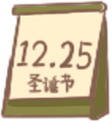
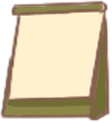
add HomePage calendar date & Todolist scroll bar
add HomePage calendar date & Todolist scroll bar

Changed region(s): [[0.1339, 0.3171, 0.8571, 0.5854], [0.2411, 0.5854, 0.6696, 0.7805]]

diff --git a/src/page/TodoList/TodoList.jsx b/src/page/TodoList/TodoList.jsx
@@ -2,6 +2,8 @@ import baseMap from "../../img/Todolist/basemap.png";
 import check from "../../img/Todolist/check.png";
 import checkBox from "../../img/Todolist/CheckBox.png";
 import paper from "../../img/Todolist/paper.png";
+import greenBook from "../../img/Todolist/GreenBook.png";
+import paperContent from "../../img/Todolist/PaperContent.png";
 
 import { postData, getJSON, putData } from "../../api/fetch";
 import { useState } from "react";
@@ -21,7 +23,7 @@ const TodoList = () => {
         setTemp(todos);
     }
     if (todos.length === 0) {
-        for (let i = 0; i < 5; i++) {
+        for (let i = 0; i < 10; i++) {
             todos.unshift({
                 description: "",
                 completed: false
@@ -96,22 +98,47 @@ const TodoList = () => {
                 <div className="view">
                     <img alt='' src={baseMap} className="baseMap" />
                     <img alt='' src={paper} className="paper" />
-                    <img alt='' src={checkBox} className="checkBox" />
-                    <img alt='' src={check} className={`check1 check ${temp[0].completed ? "a" : "b"}`} />
-                    <img alt='' src={check} className={`check2 check ${temp[1].completed ? "a" : "b"}`} />
-                    <img alt='' src={check} className={`check3 check ${temp[2].completed ? "a" : "b"}`} />
-                    <img alt='' src={check} className={`check4 check ${temp[3].completed ? "a" : "b"}`} />
-                    <img alt='' src={check} className={`check5 check ${temp[4].completed ? "a" : "b"}`} />
-                    <input type="checkbox" className="checker1 checker" defaultChecked={temp[0].completed} onChange={checked1}></input>
-                    <input type="checkbox" className="checker2 checker" defaultChecked={temp[1].completed} onChange={checked2}></input>
-                    <input type="checkbox" className="checker3 checker" defaultChecked={temp[2].completed} onChange={checked3}></input>
-                    <input type="checkbox" className="checker4 checker" defaultChecked={temp[3].completed} onChange={checked4}></input>
-                    <input type="checkbox" className="checker5 checker" defaultChecked={temp[4].completed} onChange={checked5}></input>
-                    <input type="text" className="todo1 todo descriptionInput" defaultValue={temp[0].description} onChange={todoChange1}></input>
-                    <input type="text" className="todo2 todo descriptionInput" defaultValue={temp[1].description} onChange={todoChange2}></input>
-                    <input type="text" className="todo3 todo descriptionInput" defaultValue={temp[2].description} onChange={todoChange3}></input>
-                    <input type="text" className="todo4 todo descriptionInput" defaultValue={temp[3].description} onChange={todoChange4}></input>
-                    <input type="text" className="todo5 todo descriptionInput" defaultValue={temp[4].description} onChange={todoChange5}></input>
+                    <div className="TodolistOuterContent">
+                        <div className="TodolistContent">
+                            <img alt='' src={paperContent} className="paperContent" />
+                            <img alt='' src={checkBox} className="checkBox" />
+                            <img alt='' src={check} className={`check1 check ${temp[0].completed ? "a" : "b"}`} />
+                            <img alt='' src={check} className={`check2 check ${temp[1].completed ? "a" : "b"}`} />
+                            <img alt='' src={check} className={`check3 check ${temp[2].completed ? "a" : "b"}`} />
+                            <img alt='' src={check} className={`check4 check ${temp[3].completed ? "a" : "b"}`} />
+                            <img alt='' src={check} className={`check5 check ${temp[4].completed ? "a" : "b"}`} />
+                            <input type="checkbox" className="check1 checker" defaultChecked={temp[0].completed} onChange={checked1}></input>                            
+                            <input type="text" className="todo1 todo descriptionInput" defaultValue={temp[0].description} onChange={todoChange1}></input>
+                            <input type="checkbox" className="check2 checker" defaultChecked={temp[1].completed} onChange={checked2}></input>
+                            <input type="text" className="todo2 todo descriptionInput" defaultValue={temp[1].description} onChange={todoChange2}></input>
+                            <input type="checkbox" className="check3 checker" defaultChecked={temp[2].completed} onChange={checked3}></input>
+                            <input type="text" className="todo3 todo descriptionInput" defaultValue={temp[2].description} onChange={todoChange3}></input>
+                            <input type="checkbox" className="check4 checker" defaultChecked={temp[3].completed} onChange={checked4}></input>
+                            <input type="text" className="todo4 todo descriptionInput" defaultValue={temp[3].description} onChange={todoChange4}></input>
+                            <input type="checkbox" className="check5 checker" defaultChecked={temp[4].completed} onChange={checked5}></input>
+                            <input type="text" className="todo5 todo descriptionInput" defaultValue={temp[4].description} onChange={todoChange5}></input>
+                        </div>
+                        <div className="TodolistContent">
+                            <img alt='' src={paperContent} className="paperContent" />
+                            <img alt='' src={checkBox} className="checkBox" />
+                            <img alt='' src={check} className={`check1 check ${temp[5].completed ? "a" : "b"}`} />
+                            <img alt='' src={check} className={`check2 check ${temp[6].completed ? "a" : "b"}`} />
+                            <img alt='' src={check} className={`check3 check ${temp[7].completed ? "a" : "b"}`} />
+                            <img alt='' src={check} className={`check4 check ${temp[8].completed ? "a" : "b"}`} />
+                            <img alt='' src={check} className={`check5 check ${temp[9].completed ? "a" : "b"}`} />
+                            <input type="checkbox" className="check1 checker" defaultChecked={temp[5].completed}></input>                            
+                            <input type="text" className="todo1 todo descriptionInput" defaultValue={temp[5].description}></input>
+                            <input type="checkbox" className="check2 checker" defaultChecked={temp[6].completed}></input>
+                            <input type="text" className="todo2 todo descriptionInput" defaultValue={temp[6].description}></input>
+                            <input type="checkbox" className="check3 checker" defaultChecked={temp[7].completed}></input>
+                            <input type="text" className="todo3 todo descriptionInput" defaultValue={temp[7].description}></input>
+                            <input type="checkbox" className="check4 checker" defaultChecked={temp[8].completed}></input>
+                            <input type="text" className="todo4 todo descriptionInput" defaultValue={temp[8].description}></input>
+                            <input type="checkbox" className="check5 checker" defaultChecked={temp[9].completed}></input>
+                            <input type="text" className="todo5 todo descriptionInput" defaultValue={temp[9].description}></input>
+                        </div>
+                    </div>
+                    <img alt='' src={greenBook} className="greenBook" />
                 </div>
             </div>
         );

diff --git a/src/page/TodoList/TodoList.css b/src/page/TodoList/TodoList.css
@@ -22,113 +22,120 @@ html,body{
         top: 0px;
         left: 0px;
     }
-    .checkBox{
-        width: 750px;
-        height: auto;
+    .TodolistOuterContent{
+        width: 390px;
+        height: 450px;
+        transform: rotate(-12.2deg);
         position: absolute;
-        top: -15px;
-        left: -30px;
+        top: 388px;
+        left: 135px;
+        overflow: scroll;
+        margin: 0;
+        padding: 0;
     }
+        .TodolistContent{
+            width: 390px;
+            height: 450px;;
+            position: relative;
+            top: 0;
+            left: 0;
+            overflow: hidden;
+        }
+            .paperContent{
+                width: 390px;
+                height: 450px;
+                position: absolute;
+                top: 0;
+                left: 0;
+            }
+            .checkBox{
+                width: 750px;
+                height: auto;
+                position: absolute;
+                top: -390px;
+                left: -180px;
+                transform: rotate(11.2deg);
+            }
+            .a{opacity: 1;}
+            .b{opacity: 0;}
+            .check{
+                max-width: 100%;
+                height: auto;
+            }
+                .check1{
+                    position: absolute;
+                    top: 5px;
+                    left: 28px;
+                }
+                .check2{
+                    position: absolute;
+                    top: 85px;
+                    left: 28px;
+                }
+                .check3{
+                    position: absolute;
+                    top: 175px;
+                    left: 30px;
+                }
+                .check4{
+                    position: absolute;
+                    top: 265px;
+                    left: 30px;
+                }
+                .check5{
+                    position: absolute;
+                    top: 365px;
+                    left: 30px;
+                }
 
-    .a{opacity: 1;}
-    .b{opacity: 0;}
-    .check{
-        max-width: 100%;
-        height: auto;
-    }
-        .check1{
-            position: absolute;
-            top: 410px;
-            left: 138px;
-        }
-        .check2{
-            position: absolute;
-            top: 492px;
-            left: 153px;
-        }
-        .check3{
-            position: absolute;
-            top: 579px;
-            left: 174px;
-        }
-        .check4{
-            position: absolute;
-            top: 669px;
-            left: 190px;
-        }
-        .check5{
-            position: absolute;
-            top: 765px;
-            left: 210px;
-        }
-
-    .todo{
-        width: 260px;
-        height: 30px;
-        transform: rotate(-11.2deg);
-        border: 0;
-        background-color: transparent;
-        font-size: 40px;
-        color: rgb(155, 122, 122);
-        text-align: center;
-        outline: 0;
-    }
-        .todo1{
-            position: absolute;
-            top: 400px;
-            left: 190px;
-        }
-        .todo2{
-            position: absolute;
-            top: 480px;
-            left: 208px;
-        }
-        .todo3{
-            position: absolute;
-            top: 568px;
-            left: 225px;
-        }
-        .todo4{
-            position: absolute;
-            top: 659px;
-            left: 243px;
-        }
-        .todo5{
-            position: absolute;
-            top: 755px;
-            left: 263px;
-        }
-    .checker{
-        width: 40px;
-        height: 40px;
-        transform: rotate(-11.2deg);
-        opacity: 0;
-    }
-        .checker1{
-            position: absolute;
-            top: 430px;
-            left: 134px;
-        }
-        .checker2{
-            position: absolute;
-            top: 510px;
-            left: 150px;
-        }
-        .checker3{
-            position: absolute;
-            top: 595px;
-            left: 167px;
-        }
-        .checker4{
-            position: absolute;
-            top: 685px;
-            left: 185px;
-        }
-        .checker5{
-            position: absolute;
-            top: 780px;
-            left: 205px;
-        }
-    .checker:checked + .todo{
-        text-decoration: line-through;
-    }
+            .todo{
+                width: 260px;
+                height: 30px;
+                border: 0;
+                background-color: transparent;
+                font-size: 35px;
+                color: rgb(155, 122, 122);
+                text-align: center;
+                outline: 0;
+            }
+                .todo1{
+                    position: absolute;
+                    top: 25px;
+                    left: 85px;
+                }
+                .todo2{
+                    position: absolute;
+                    top: 105px;
+                    left: 90px;
+                }
+                .todo3{
+                    position: absolute;
+                    top: 193px;
+                    left: 93px;
+                }
+                .todo4{
+                    position: absolute;
+                    top: 288px;
+                    left: 95px;
+                }
+                .todo5{
+                    position: absolute;
+                    top: 385px;
+                    left: 95px;
+                }
+            .checker{
+                width: 40px;
+                height: 40px;
+                transform: rotate(11.2deg);
+                opacity: 0;
+            }
+            .checker:checked + .todo{
+                text-decoration: line-through;
+            }
+            .greenBook{
+                width: 300px;
+                height: 655px;
+                position: absolute;
+                top: 390px;
+                left: 450px;
+            }

diff --git a/src/page/HomePage/HomePage.jsx b/src/page/HomePage/HomePage.jsx
@@ -20,11 +20,20 @@ const HomePage = () => {
         let bodyStyle = document.body.style;
         bodyStyle.zoom = window.innerWidth/750;
 
+        let time = new Date();
+        let month = time.getMonth()+1;
+        let date = time.getDate();
+        let timing = month + '.' + date;
+        console.log(timing);
+
         return(
             <div className="view">
                 <img alt='' src={baseLayer} className="baseLayer"/>
                 <Link to="/BulletinBoard"><img alt='' src={bulletinBoard} className="bulletinBoard"/></Link>
-                <Link to="/Calendar"><img alt='' src={calendar} className="calendar item"/></Link>
+                <Link to="/Calendar">
+                    <img alt='' src={calendar} className="calendar item"/>
+                    <input type="text" className="timing" defaultValue={timing}></input>
+                </Link>
                 <Link to="/GarbageCan"><img alt='' src={garbageCan} className="garbageCan item"/></Link>
                 <img alt='' src={paperAirplane} className="paperAirplane item"/>
                 <img alt='' src={pottedPlant} className="pottedPlant1 item"/>

diff --git a/src/page/HomePage/HomePage.css b/src/page/HomePage/HomePage.css
@@ -35,6 +35,20 @@ html,body{
         top: 315px;
         left: 385px;
     }
+    .timing{
+        width: 65px;
+        height: 60px;
+        border: 0;
+        background-color: transparent;
+        font-size: 40px;
+        color: rgb(155, 122, 122);
+        text-align: center;
+        outline: 0;
+        position: absolute;
+        top: 345px;
+        left: 405px;
+        transform: rotate(2deg);
+    }
     .garbageCan{
         max-width: 100%;
         height: auto;

diff --git a/src/page/GarbageCan/GarbageCan.jsx b/src/page/GarbageCan/GarbageCan.jsx
@@ -2,6 +2,8 @@ import baseLayer from '../../img/GarbageCan/BaseLayer.png';
 import crumpledPaper from '../../img/GarbageCan/CrumpledPaper.png';
 import GarbageCanContentOuterBox from '../../components/GarbageCanContentOuterBox/GarbageCanContentOuterBox';
 import GarbageCanPastDate from '../../components/GarbageCanPastDate/GarbageCanPastDate';
+
+import {getJSON} from '../../api/fetch';
 import './GarbageCan.css';
 
 
